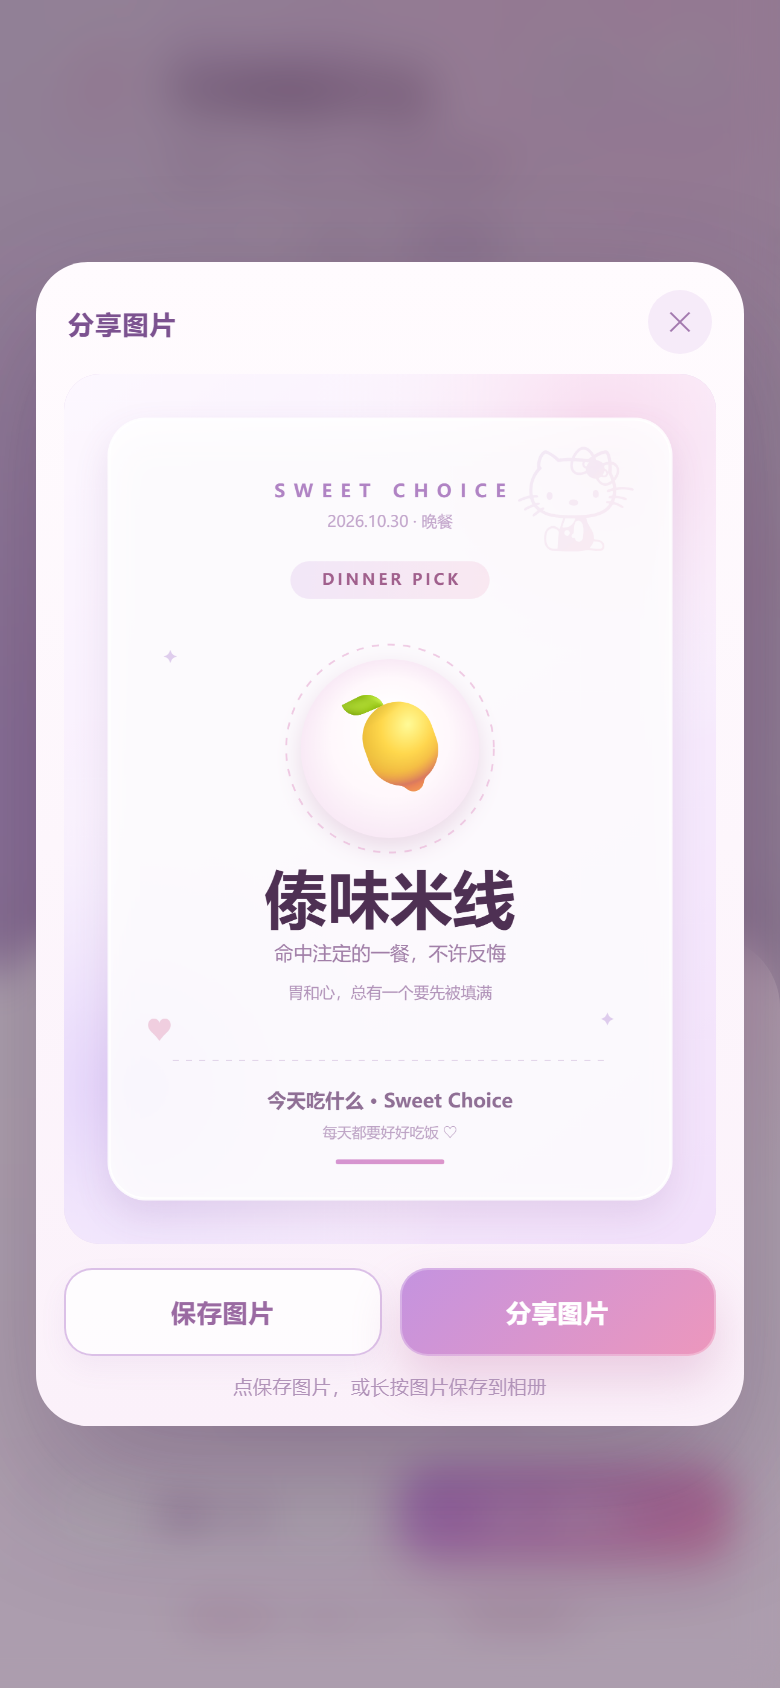
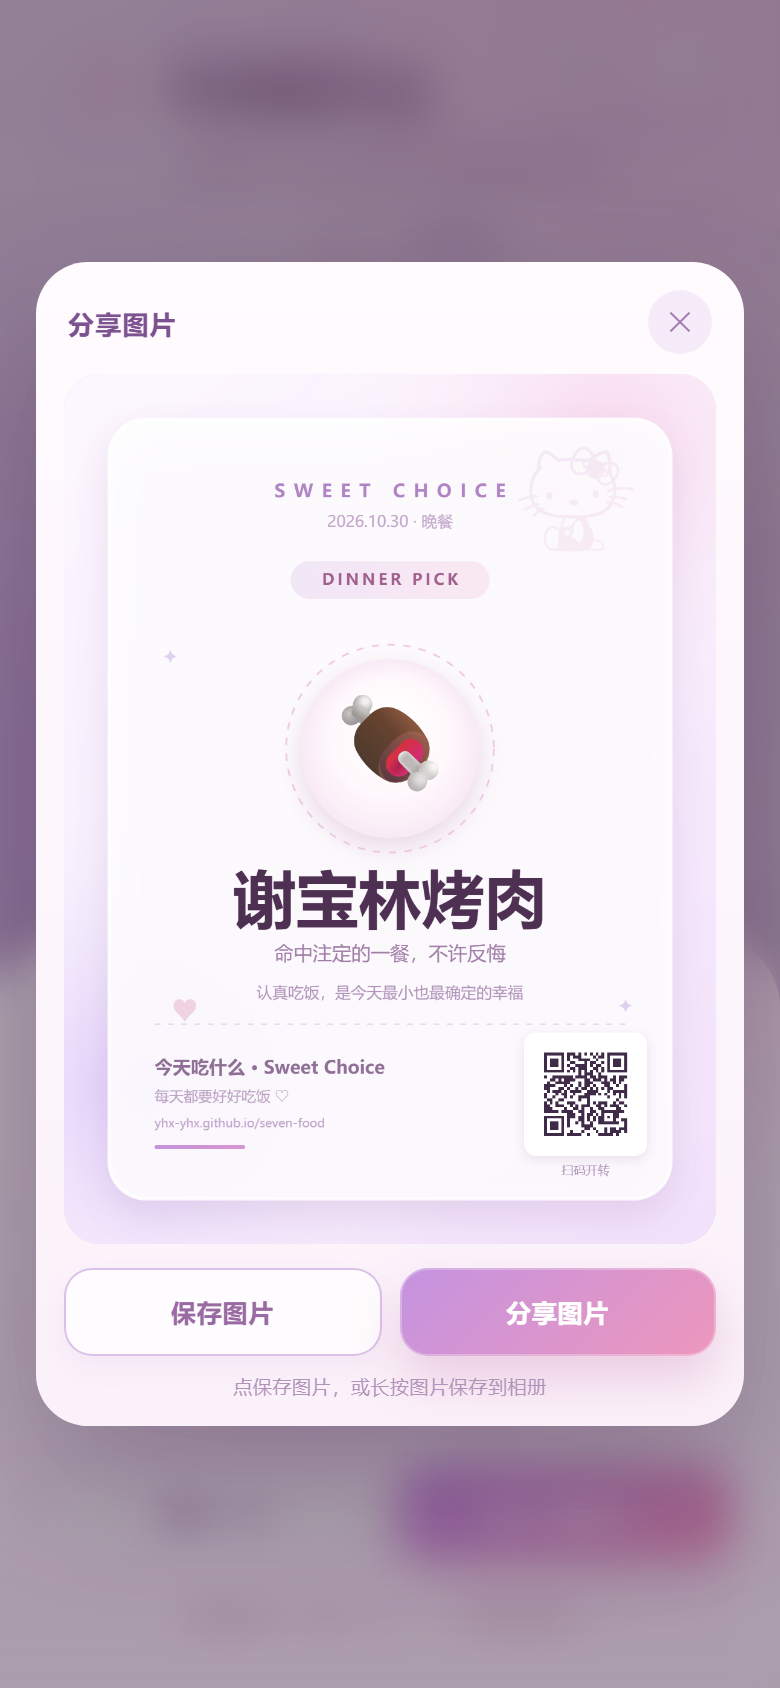
feat(1.2.0): add QR code to share poster, narrow-screen topbar fix, local git sync

Changed region(s): [[0.1846, 0.5853, 0.6769, 0.6777], [0.2769, 0.4005, 0.7077, 0.5545], [0.6769, 0.6161, 0.8, 0.6777]]

diff --git a/src/App.vue b/src/App.vue
@@ -664,6 +664,7 @@
 
 <script setup>
 import { computed, nextTick, onBeforeUnmount, onMounted, ref, watch } from 'vue'
+import qrcode from 'qrcode-generator'
 import HelloKitty from './components/HelloKitty.vue'
 import BowMark from './components/BowMark.vue'
 import { buildShareLink, decodeMenu, encodeMenu } from './lib/share-code'
@@ -679,6 +680,8 @@ const MIN_FOODS = 2
 const WHEEL_MAX = 330
 const SPIN_MS = 4600
 const DAY_MS = 86400000
+/* 二维码/兜底用的正式站点地址；本地开发时不会把 localhost 印到分享图上 */
+const CANONICAL_URL = 'https://yhx-yhx.github.io/seven-food/'
 
 /* 三套主题：转盘扇形、按钮渐变、指针爱心、页面背景 */
 const THEMES = [
@@ -948,6 +951,15 @@ function randomInt(max) {
 function getWindowSize() {
   if (typeof window === 'undefined') return { width: 375, height: 812 }
   return { width: window.innerWidth, height: window.innerHeight }
+}
+
+function siteUrl() {
+  if (typeof location === 'undefined') return CANONICAL_URL
+  const host = location.hostname
+  if (!host || host === 'localhost' || host === '127.0.0.1' || host === '0.0.0.0' || host.endsWith('.local')) {
+    return CANONICAL_URL
+  }
+  return location.origin + location.pathname
 }
 
 /* ------------------------------------------------------------------ */
@@ -1896,6 +1908,27 @@ const POSTER_THEMES = {
   }
 }
 
+function drawQrCode(ctx, text, x, y, size) {
+  const qr = qrcode(0, 'M')
+  qr.addData(text)
+  qr.make()
+  const count = qr.getModuleCount()
+  const quiet = 4
+  const total = count + quiet * 2
+  const cell = size / total
+  ctx.fillStyle = '#3f2b47'
+  for (let row = 0; row < count; row += 1) {
+    for (let col = 0; col < count; col += 1) {
+      if (!qr.isDark(row, col)) continue
+      const px = Math.round(x + (col + quiet) * cell)
+      const py = Math.round(y + (row + quiet) * cell)
+      const pw = Math.round(x + (col + quiet + 1) * cell) - px
+      const ph = Math.round(y + (row + quiet + 1) * cell) - py
+      ctx.fillRect(px, py, pw, ph)
+    }
+  }
+}
+
 async function drawPoster(ctx, food) {
   const width = 1080
   const height = 1440
@@ -2018,33 +2051,58 @@ async function drawPoster(ctx, food) {
   ctx.lineWidth = 2
   ctx.setLineDash([10, 12])
   ctx.beginPath()
-  ctx.moveTo(180, 1136)
-  ctx.lineTo(900, 1136)
+  ctx.moveTo(150, 1076)
+  ctx.lineTo(930, 1076)
   ctx.stroke()
   ctx.setLineDash([])
 
+  /* 左侧品牌信息 */
+  ctx.textAlign = 'left'
   ctx.fillStyle = '#8f6f95'
-  ctx.font = `700 32px ${family}`
-  ctx.fillText('今天吃什么 · Sweet Choice', width / 2, 1206)
+  ctx.font = `700 30px ${family}`
+  ctx.fillText('今天吃什么 · Sweet Choice', 150, 1150)
 
   ctx.fillStyle = '#bda3c5'
   ctx.font = `400 24px ${family}`
-  ctx.fillText('每天都要好好吃饭 ♡', width / 2, 1258)
+  ctx.fillText('每天都要好好吃饭 ♡', 150, 1198)
 
-  const accent = ctx.createLinearGradient(0, 0, width, 0)
+  ctx.fillStyle = '#c3a6cc'
+  ctx.font = `400 20px ${family}`
+  ctx.fillText(siteUrl().replace(/^https?:\/\//, '').replace(/\/$/, ''), 150, 1242)
+
+  const accent = ctx.createLinearGradient(150, 0, 420, 0)
   accent.addColorStop(0, palette.accentA)
   accent.addColorStop(1, palette.accentB)
   ctx.fillStyle = accent
-  roundRectPath(ctx, width / 2 - 90, 1300, 180, 8, 4)
+  roundRectPath(ctx, 150, 1276, 150, 7, 4)
   ctx.fill()
 
+  /* 右侧二维码：扫码打开本站 */
+  const qrSize = 176
+  const qrX = 776
+  const qrY = 1104
+  ctx.save()
+  ctx.shadowColor = 'rgba(120, 76, 145, 0.14)'
+  ctx.shadowBlur = 18
+  ctx.shadowOffsetY = 6
+  ctx.fillStyle = '#ffffff'
+  roundRectPath(ctx, qrX - 14, qrY - 14, qrSize + 28, qrSize + 28, 20)
+  ctx.fill()
+  ctx.restore()
+  drawQrCode(ctx, siteUrl(), qrX, qrY, qrSize)
+
+  ctx.textAlign = 'center'
+  ctx.fillStyle = '#b193b9'
+  ctx.font = `500 20px ${family}`
+  ctx.fillText('扫码开转', qrX + qrSize / 2, qrY + qrSize + 40)
+
   ctx.font = `400 44px ${family}`
-  ctx.globalAlpha = 0.5
+  ctx.globalAlpha = 0.45
   ctx.fillStyle = '#e6a5c2'
-  ctx.fillText('♥', 158, 1090)
+  ctx.fillText('♥', 200, 1058)
   ctx.fillStyle = '#c2a0dd'
   ctx.font = `400 30px ${family}`
-  ctx.fillText('✦', 900, 1070)
+  ctx.fillText('✦', 930, 1048)
   ctx.fillText('✦', 176, 470)
   ctx.globalAlpha = 1
 }
@@ -3780,7 +3838,7 @@ onBeforeUnmount(() => {
   display: block;
 }
 .lede-row {
-  width: 100%;
+  width: auto;
   padding: 0;
   border: 0;
   background: none;
@@ -4192,6 +4250,37 @@ onBeforeUnmount(() => {
 @media (prefers-reduced-motion: reduce) {
   .hub.is-settled {
     animation: none !important;
+  }
+}
+
+/* 窄屏（iPhone SE 等）收紧顶部，避免标题换行 */
+@media (max-width: 360px) {
+  .title {
+    font-size: 23px;
+  }
+  .brand-mark {
+    width: 42px;
+    height: 42px;
+    border-radius: 15px;
+  }
+  .brand-kitty {
+    width: 30px;
+    height: 30px;
+  }
+  .topbar-actions {
+    gap: 6px;
+  }
+  .icon-btn {
+    width: 40px;
+    height: 40px;
+  }
+  .icon-edit,
+  .icon-gear {
+    width: 17px;
+    height: 17px;
+  }
+  .lede-row {
+    margin-left: 54px;
   }
 }
 

diff --git a/README.md b/README.md
@@ -18,7 +18,7 @@
 - **旋转中的标签**：旋转时标签轻微模糊，增加神秘感；同时标签始终水平朝上，随扇形位置移动，不会跟着转盘倒转。
 - **今日提示**：顶部提示文字支持「随机一句」和「自定义」；随机模式会按早/午/下午茶/晚/夜宵切换文案池，每次抽完自动换一句。
 - **结果卡片**：底部弹出完整菜名、Emoji、庆祝动效；可「再转一次」「好，就它了」「分享给朋友」。
-- **分享**：可以分享链接，也可以生成一张 1080×1440 的分享图；图片会先预览，确认后再保存或调起系统分享。
+- **分享**：可以分享链接，也可以生成一张 1080×1440 的分享图；图片会先预览，确认后再保存或调起系统分享，图片右下角带本站二维码。
 - **自定义菜单**：默认 11 道菜、最多 12 道、最少 2 道；支持添加、改名换图标、删除可撤销、灵感推荐、恢复默认。
 - **主题与音效**：浅紫 / 樱粉 / 奶油三套主题；转盘音效可开关（默认关闭，WebAudio 合成，无音频文件）。
 - **菜单分享**：把菜单生成一条链接或 `SF1…` 短码，朋友打开即可一键导入，不需要后端。
@@ -72,6 +72,9 @@
 
 - **分享链接**：优先调起系统分享面板（iOS 分享面板 / Android 应用列表），选微信即可发送；不支持时自动复制链接。
 - **分享图片**：生成一张 1080×1440 的分享图，**先在应用内预览**，确认后再「保存图片」或「分享图片」（`navigator.share({ files })`）。
+- **二维码**：分享图右下角会自动生成指向本站的二维码，别人扫码即可打开转盘。
+  - 站点地址取自当前域名；本地 `localhost` 会改用 `src/App.vue` 里的 `CANONICAL_URL`，避免把 localhost 印进图片。
+  - 二维码使用 `qrcode-generator` 在浏览器里本地生成，不依赖任何在线接口。
 
 ### 微信里的限制（重要）
 
